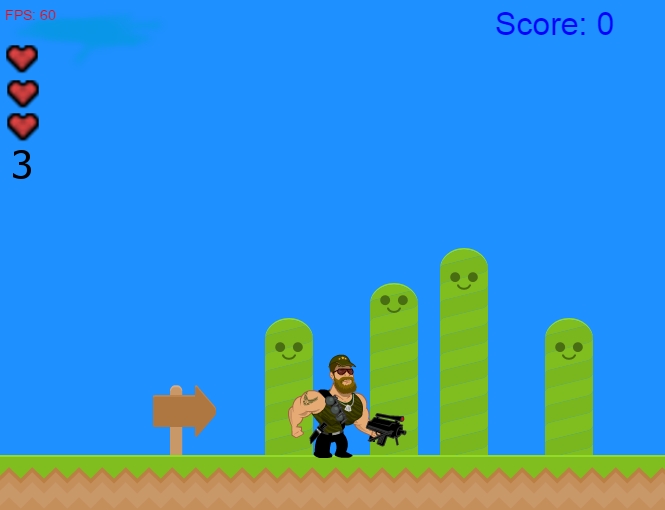
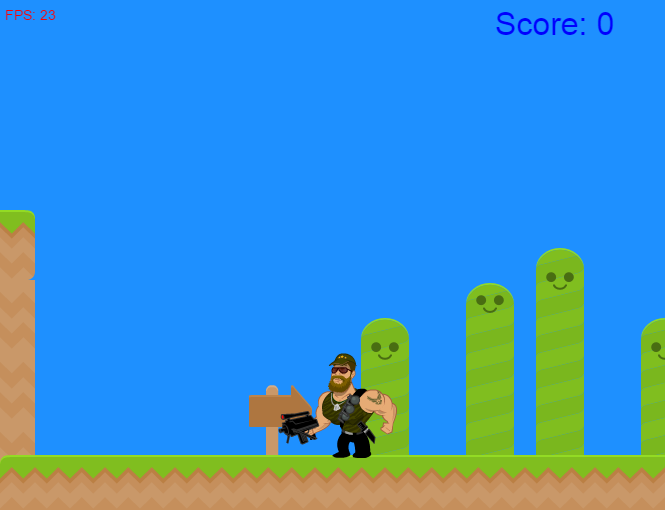
Finished
Finished

Changed region(s): [[0.0, 0.4118, 1.0, 0.9412], [0.0, 0.0882, 0.0602, 0.3529], [0.0602, 0.0, 0.0902, 0.0588]]

diff --git a/main.js b/main.js
@@ -217,7 +217,7 @@ idx++;
 			buffer: true,
 			volume: 0.3
 		});
-		musicBackground.play();
+		//musicBackground.play();
 		
 		sfxFire = new Howl(
 		{
@@ -305,14 +305,7 @@ if(shootTimer > 0)
 	
 	
    
-    heart.src = "heart.png";
-    if (hp >= 1)
-        context.drawImage(heart, 10, 23);
-    if (hp >= 2)
-        context.drawImage(heart, 10 + (heart.width + 5), 23);
-    if (hp >= 3)
-        context.drawImage(heart, 10 + ((heart.width + 5) + (heart.width + 2)), 23);
-    
+  
     
 
    
